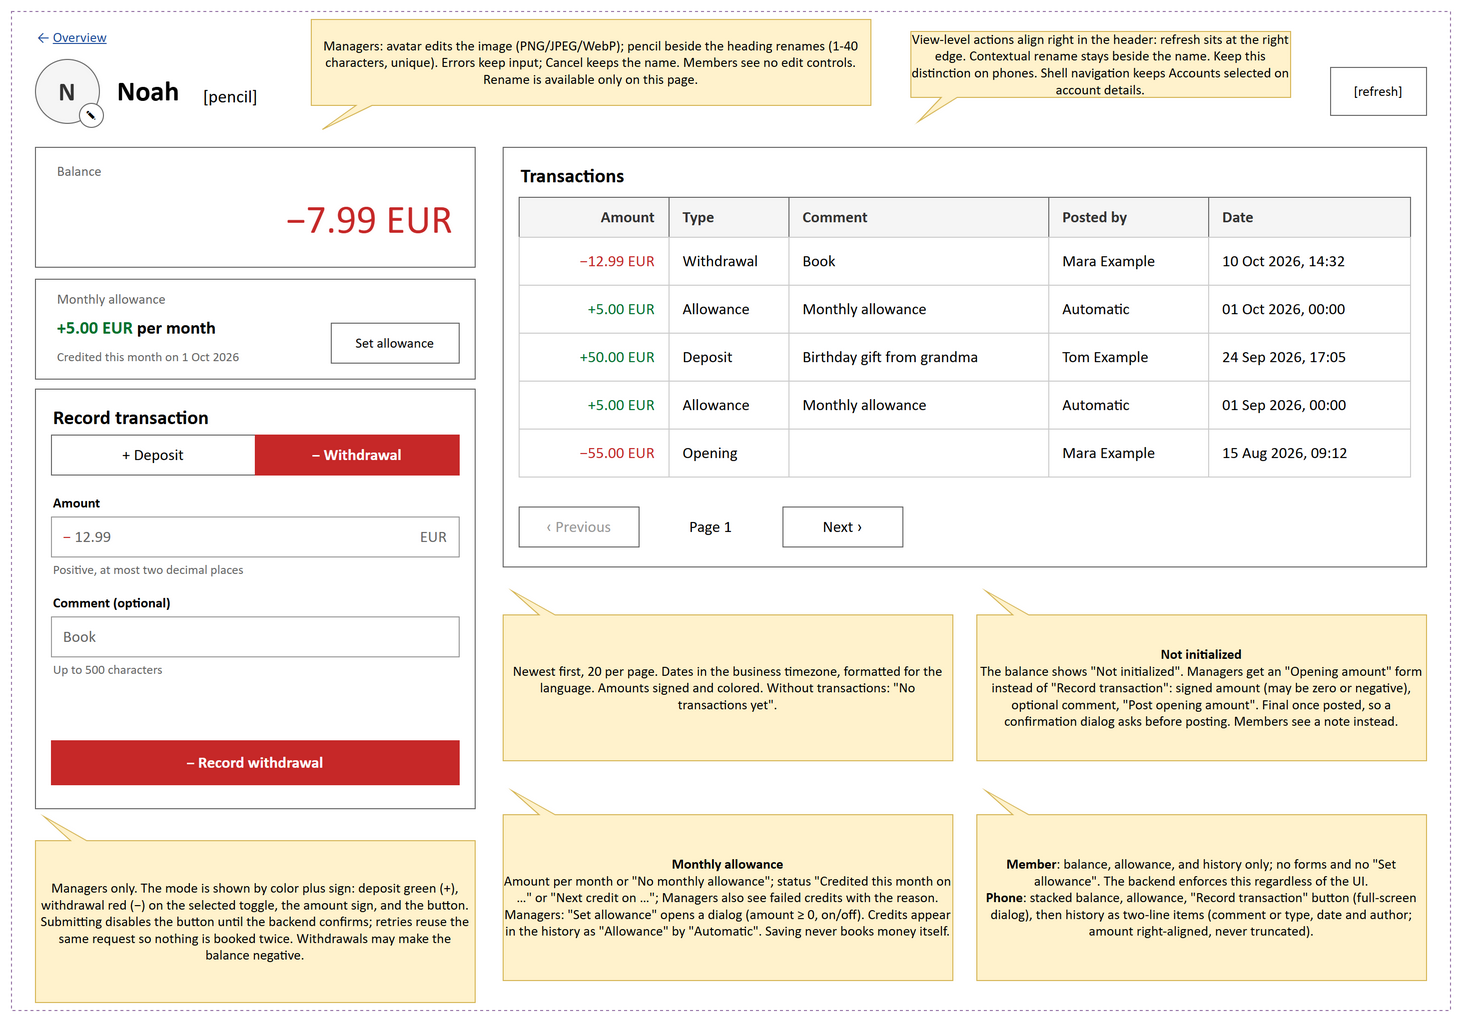
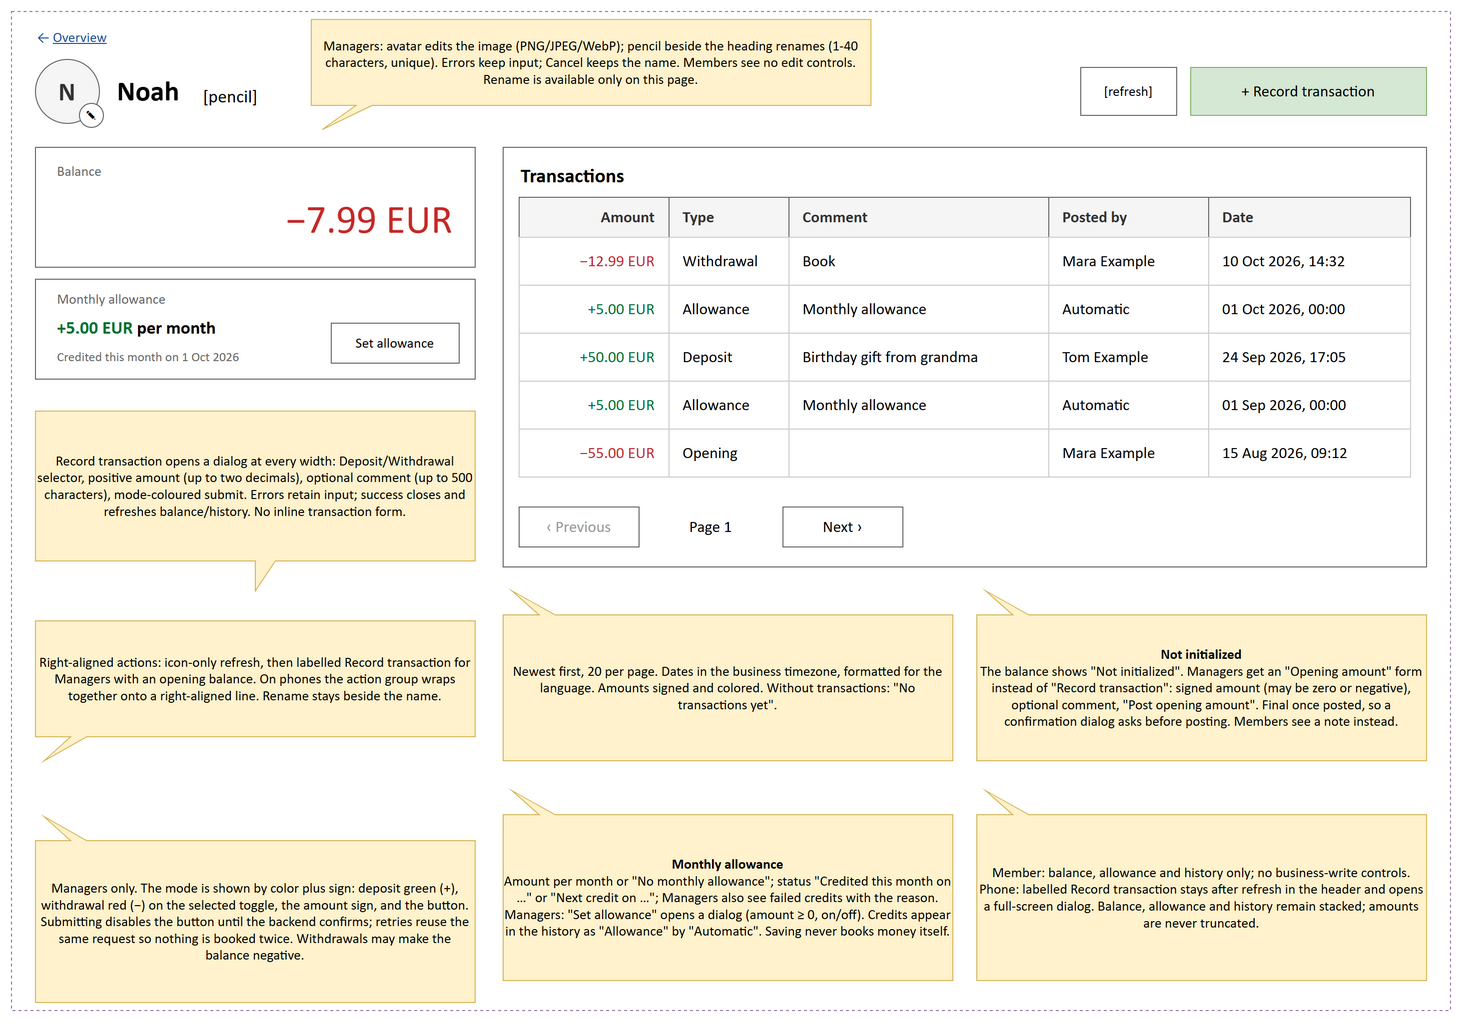
Transaction is now a button in the account details view opening a dialog

Changed region(s): [[0.0, 0.375, 0.3381, 0.7812], [0.6148, 0.0312, 0.9836, 0.125], [0.6762, 0.8438, 0.9836, 0.9375]]

diff --git a/docs/design/prototypes/account-details/index.html b/docs/design/prototypes/account-details/index.html
@@ -8,10 +8,13 @@
   <link rel="stylesheet" href="../shared/prototype.css">
   <style>
     .back-link { margin-bottom: var(--space-7); }
-    .details-head { display: flex; align-items: center; gap: var(--space-5); margin-bottom: var(--space-7); }
+    .details-head { display: flex; flex-wrap: wrap; align-items: center; gap: var(--space-5); margin-bottom: var(--space-7); }
     .details-head > .page-title { min-width: 0; overflow-wrap: anywhere; }
     .details-head > .avatar, .details-head > button { flex-shrink: 0; }
     .details-head > .view-actions { margin-inline-start: auto; }
+    .view-actions { display: flex; align-items: center; justify-content: end; gap: var(--space-3); max-width: 100%; }
+    .view-actions > .icon-button { flex-shrink: 0; }
+    .view-actions > .button { white-space: normal; }
     .avatar-button { position: relative; padding: 0; border: 0; border-radius: 50%; background: none; }
     .avatar-button:hover .avatar { outline: 2px solid var(--border-strong); }
     .avatar-badge { position: absolute; inset-inline-end: -2px; inset-block-end: -2px; display: grid; place-items: center; width: 26px; height: 26px; border: 1px solid var(--border-default); border-radius: 50%; background: var(--surface-raised); color: var(--icon-default); }
@@ -25,7 +28,6 @@
     .balance { font: var(--type-display); font-weight: var(--weight-medium); text-align: end; font-variant-numeric: tabular-nums; overflow-wrap: anywhere; }
     .allowance { display: flex; flex-wrap: wrap; align-items: center; justify-content: space-between; gap: var(--space-4); }
     .allowance-amount { font: var(--type-h3); }
-    .phone-record { display: none; }
     .pager { display: flex; flex-wrap: wrap; align-items: center; gap: var(--space-4); margin-top: var(--space-5); }
     .type-label { white-space: nowrap; }
     .transaction-form .segments span { gap: 6px; }
@@ -43,8 +45,6 @@
     .transaction-form .input-wrap .input { padding-inline-start: 28px; }
     @media (max-width: 899px) { .layout { grid-template-columns: 1fr; } }
     @media (max-width: 599px) {
-      .record-panel { display: none; }
-      .phone-record { display: flex; }
       .table thead { display: none; }
       .table tr { display: grid; grid-template-columns: 1fr auto; padding: 8px 0; border-bottom: 1px solid var(--border-subtle); }
       .table td { border: 0; padding: 2px 4px; }
@@ -90,7 +90,7 @@
       const balance = PM.balance(account);
       const money = PM.money(balance);
       view.innerHTML = `${back()}
-        <div class="details-head">${PM.isManager() ? `<button class="avatar-button" type="button" id="edit-image" aria-label="${PM.esc(PM.t('changeImage', { name: account.name }))}" title="${PM.esc(PM.t('changeImage', { name: account.name }))}">${PM.avatar(account)}<span class="avatar-badge" aria-hidden="true">${PM.icon('pencil')}</span></button>` : PM.avatar(account)}<h1 class="page-title">${PM.esc(account.name)}</h1>${PM.isManager() ? `<button class="icon-button" type="button" id="edit-name" aria-label="${PM.esc(PM.t('editNamed', { name: account.name }))}" title="${PM.esc(PM.t('editNamed', { name: account.name }))}">${PM.icon('pencil')}</button>` : ''}<button class="icon-button view-actions" type="button" id="refresh-view" aria-label="${PM.esc(PM.t('refresh'))}" title="${PM.esc(PM.t('refresh'))}">${PM.icon('refresh')}</button></div>
+        <div class="details-head">${PM.isManager() ? `<button class="avatar-button" type="button" id="edit-image" aria-label="${PM.esc(PM.t('changeImage', { name: account.name }))}" title="${PM.esc(PM.t('changeImage', { name: account.name }))}">${PM.avatar(account)}<span class="avatar-badge" aria-hidden="true">${PM.icon('pencil')}</span></button>` : PM.avatar(account)}<h1 class="page-title">${PM.esc(account.name)}</h1>${PM.isManager() ? `<button class="icon-button" type="button" id="edit-name" aria-label="${PM.esc(PM.t('editNamed', { name: account.name }))}" title="${PM.esc(PM.t('editNamed', { name: account.name }))}">${PM.icon('pencil')}</button>` : ''}<div class="view-actions"><button class="icon-button" type="button" id="refresh-view" aria-label="${PM.esc(PM.t('refresh'))}" title="${PM.esc(PM.t('refresh'))}">${PM.icon('refresh')}</button>${PM.isManager() && balance !== null ? `<button class="button button-primary" type="button" id="record-transaction">${PM.icon('plus')}${PM.esc(PM.t('recordTransaction'))}</button>` : ''}</div></div>
         <div class="layout">
           <div class="side">
             <section class="panel" aria-labelledby="balance-label"><div class="label" id="balance-label">${PM.esc(PM.t('balance'))}</div><div class="balance ${money.cls}">${PM.esc(money.text)}</div></section>
@@ -171,8 +171,7 @@
           </form></section>`;
       }
 
-      return `<button class="button button-primary button-block phone-record" type="button" id="phone-record">${PM.icon('plus')}${PM.esc(PM.t('recordTransaction'))}</button>
-        <section class="panel record-panel" aria-labelledby="record-title"><h2 class="panel-title" id="record-title">${PM.esc(PM.t('recordTransaction'))}</h2>${transactionForm('record')}</section>`;
+      return '';
     }
 
     function transactionForm(prefix) {
@@ -213,15 +212,10 @@
       document.getElementById('set-allowance')?.addEventListener('click', () => openAllowance(account));
       document.getElementById('edit-image')?.addEventListener('click', () => openImage(account));
       document.getElementById('opening-form')?.addEventListener('submit', event => submitOpening(event, account));
-      document.getElementById('phone-record')?.addEventListener('click', () => {
+      document.getElementById('record-transaction')?.addEventListener('click', () => {
         const recordDialog = PM.dialog({ title: PM.t('recordTransaction'), body: transactionForm('dialog') });
         bindTransaction(recordDialog.querySelector('form'), account, recordDialog);
       });
-      const form = view.querySelector('.transaction-form');
-
-      if (form) {
-        bindTransaction(form, account);
-      }
     }
 
     function bindTransaction(form, account, container) {

diff --git a/revamp/web/src/app/components/account-details/account-details.html b/revamp/web/src/app/components/account-details/account-details.html
@@ -29,19 +29,25 @@
           <span class="icon icon-pencil" aria-hidden="true"></span>
         </button>
       }
-      <button
-        class="view-actions"
-        tuiButton
-        appearance="flat"
-        size="s"
-        type="button"
-        [disabled]="busy() || !interactive()"
-        [attr.aria-label]="t('accounts.refresh')"
-        [title]="t('accounts.refresh')"
-        (click)="reload()"
-      >
-        <span class="icon icon-refresh-cw" aria-hidden="true"></span>
-      </button>
+      <div class="view-actions">
+        <button
+          tuiButton
+          appearance="flat"
+          size="s"
+          type="button"
+          [disabled]="busy() || !interactive()"
+          [attr.aria-label]="t('accounts.refresh')"
+          [title]="t('accounts.refresh')"
+          (click)="reload()"
+        >
+          <span class="icon icon-refresh-cw" aria-hidden="true"></span>
+        </button>
+        @if (auth.user()?.role === 'Manager' && current.balance !== null) {
+          <button tuiButton appearance="primary" size="m" type="button" [disabled]="busy() || !interactive()" (click)="transactionDialog.set(true)">
+            <span class="icon icon-plus" aria-hidden="true"></span>{{ t('accounts.recordTransaction') }}
+          </button>
+        }
+      </div>
     </div>
 
     <app-modal-dialog [open]="renaming()" [heading]="t('accounts.editNamed', { name: current.name })" (closed)="renaming.set(false)">
@@ -124,15 +130,6 @@
                 </button>
               </form>
             </section>
-          } @else if (phone()) {
-            <button tuiButton appearance="primary" size="m" type="button" class="phone-record" (click)="phoneForm.set(true)">
-              <span class="icon icon-plus" aria-hidden="true"></span>{{ t('accounts.recordTransaction') }}
-            </button>
-          } @else {
-            <section class="panel" aria-labelledby="record-title">
-              <h2 class="panel-title" id="record-title">{{ t('accounts.recordTransaction') }}</h2>
-              <ng-container [ngTemplateOutlet]="transactionForm" [ngTemplateOutletContext]="{ $implicit: current }" />
-            </section>
           }
         } @else if (current.balance === null) {
           <div class="message message-info">
@@ -205,8 +202,8 @@
       }
     </div>
 
-    <app-modal-dialog [open]="phoneForm()" [heading]="t('accounts.recordTransaction')" (closed)="phoneForm.set(false)">
-      @if (phoneForm()) {
+    <app-modal-dialog [open]="transactionDialog()" [heading]="t('accounts.recordTransaction')" (closed)="transactionDialog.set(false)">
+      @if (transactionDialog()) {
         <ng-container [ngTemplateOutlet]="transactionForm" [ngTemplateOutletContext]="{ $implicit: current }" />
       }
     </app-modal-dialog>

diff --git a/revamp/tests/e2e/specs/ledger.spec.ts b/revamp/tests/e2e/specs/ledger.spec.ts
@@ -54,9 +54,15 @@ async function chooseLanguage(page: Page, language: string, returnTo: string) {
 }
 
 async function openTransactionForm(page: Page, record: string) {
-  if (page.viewportSize()!.width < 600) {
-    await page.getByRole('button', { name: record, exact: true }).click();
-  }
+  const actions = page.locator('.details-head .view-actions');
+  const trigger = actions.getByRole('button', { name: record, exact: true });
+
+  await expect(page.locator('.transaction-form')).toHaveCount(0);
+  await expect(actions.getByRole('button')).toHaveCount(2);
+  await expect(actions.getByRole('button').last()).toHaveText(record);
+  await trigger.click();
+  await expect(page.getByRole('dialog', { name: record, exact: true })).toBeVisible();
+  await expect(page.locator('.transaction-form')).toHaveCount(1);
 }
 
 test('real SQLite ledger migration, exact arithmetic, constraints and complete rollback hold @api', async () => {
@@ -752,6 +758,7 @@ for (const language of ['de', 'en'] as const) {
       await expect(page.getByTestId('account-balance')).toHaveText(`-0${labels.decimal}01 ${symbol}`);
       await expect(page.getByTestId('account-balance')).toHaveClass(/amount-negative/);
       await openTransactionForm(page, labels.record);
+      await page.screenshot({ path: test.info().outputPath('transaction-dialog.png'), fullPage: true });
       await page.getByRole('radio', { name: labels.withdrawal, exact: true }).check();
 
       await expect(page.locator('form[data-mode="withdrawal"]')).toBeVisible();
@@ -767,6 +774,7 @@ for (const language of ['de', 'en'] as const) {
       await page.getByRole('textbox', { name: labels.comment, exact: true }).fill(comment);
       await page.getByRole('button', { name: labels.postWithdrawal, exact: true }).click();
       await expect(page.getByTestId('account-balance')).toHaveText(`-0${labels.decimal}03 ${symbol}`);
+      await expect(page.getByRole('dialog', { name: labels.record, exact: true })).toHaveCount(0);
       await expect(page.getByTestId('ledger-entry').first()).toContainText(comment);
       await expect(page.getByTestId('ledger-entry').first()).toContainText(`-0${labels.decimal}02 ${symbol}`);
       expect(await page.evaluate(() => 'monkeyXss' in window)).toBe(false);

diff --git a/revamp/web/src/app/components/account-details/account-details.ts b/revamp/web/src/app/components/account-details/account-details.ts
@@ -1,5 +1,5 @@
-import { afterNextRender, Component, effect, inject, PLATFORM_ID, signal } from '@angular/core';
-import { DatePipe, isPlatformBrowser, NgTemplateOutlet } from '@angular/common';
+import { afterNextRender, Component, effect, inject, signal } from '@angular/core';
+import { DatePipe, NgTemplateOutlet } from '@angular/common';
 import { toSignal } from '@angular/core/rxjs-interop';
 import { FormsModule } from '@angular/forms';
 import { ActivatedRoute, RouterLink } from '@angular/router';
@@ -38,7 +38,6 @@ export class AccountDetails {
   private readonly service = inject(AccountsService);
   private readonly route = inject(ActivatedRoute);
   private readonly parameters = toSignal(this.route.paramMap);
-  private readonly phoneQuery = isPlatformBrowser(inject(PLATFORM_ID)) ? matchMedia('(max-width: 599px)') : null;
 
   protected readonly account = signal<SharedAccount | null>(null);
   protected readonly loading = signal(false);
@@ -52,8 +51,7 @@ export class AccountDetails {
   protected name = '';
   protected readonly source = signal<'deposit' | 'withdrawal'>('deposit');
   protected readonly confirmingOpening = signal(false);
-  protected readonly phone = signal(false);
-  protected readonly phoneForm = signal(false);
+  protected readonly transactionDialog = signal(false);
   protected readonly history = signal<LedgerEntry[]>([]);
   protected readonly historyLoading = signal(true);
   protected readonly historyError = signal('');
@@ -88,10 +86,7 @@ export class AccountDetails {
       }
     });
 
-    this.phoneQuery?.addEventListener('change', (event) => this.phone.set(event.matches));
-
     afterNextRender(() => {
-      this.phone.set(this.phoneQuery?.matches ?? false);
       this.interactive.set(true);
 
       if (this.account()?.balance !== null) {
@@ -181,7 +176,7 @@ export class AccountDetails {
         this.transactionPayload = '';
         this.amount = '';
         this.comment = '';
-        this.phoneForm.set(false);
+        this.transactionDialog.set(false);
         this.saved.set(source === 'deposit' ? 'accounts.depositSaved' : 'accounts.withdrawalSaved');
         const refreshed = await this.service.find(account.id);
 

diff --git a/revamp/web/src/app/components/account-details/account-details.scss b/revamp/web/src/app/components/account-details/account-details.scss
@@ -4,6 +4,7 @@
 
 .details-head {
   display: flex;
+  flex-wrap: wrap;
   align-items: center;
   gap: var(--space-5);
   margin-bottom: var(--space-7);
@@ -20,6 +21,22 @@
 
   > .view-actions {
     margin-inline-start: auto;
+  }
+}
+
+.view-actions {
+  display: flex;
+  align-items: center;
+  justify-content: end;
+  gap: var(--space-3);
+  max-width: 100%;
+
+  > button:first-child {
+    flex-shrink: 0;
+  }
+
+  > button:last-child {
+    white-space: normal;
   }
 }
 

diff --git a/docs/design/README.md b/docs/design/README.md
@@ -30,6 +30,19 @@ View-level actions such as refresh align at the right edge of the view header;
 contextual actions stay beside their target. See the shared
 [view-header guidance](design-system/components.md#view-headers).
 
+The user approved the unified transaction-dialog refinement on 2026-10-10:
+desktop and mobile account details show a labelled "Record transaction" action
+immediately after icon-only refresh in the right-aligned header group. Managers
+with an opening balance use the same dialog for deposits and withdrawals at
+every width; the regular view no longer embeds the form. Phone dialogs remain
+full-screen. Opening-balance entry and backend financial rules are unchanged.
+Verification: Angular/production-image builds, catalog validation and test
+typechecking passed. All four selected desktop/mobile localized transaction
+workflows passed without retries, covering deposits, withdrawals, validation,
+retry idempotency, dialog closure, history and Member access. Desktop/mobile
+dialog screenshots were reviewed. Prototype checks covered English/German,
+light/dark, 320px/360px/1440px, action order, dialog opening and role/opening gates.
+
 ## Reference inventory
 
 Login and app-shell footer updates are approved: show the build version and a
@@ -74,7 +87,7 @@ wireframe first, then a detailed click prototype.
 | App shell | [draw.io source](wireframes/application-shell/application-shell-wireframe.drawio), [PNG preview](wireframes/application-shell/application-shell-wireframe.png) | Approved 2026-10-10, including footer refinements | [Shell](prototypes/application-shell/index.html) |
 | Accounts overview | [draw.io source](wireframes/accounts-overview/accounts-overview-wireframe.drawio), [PNG preview](wireframes/accounts-overview/accounts-overview-wireframe.png) | Approved 2026-10-10 | [Overview](prototypes/accounts-overview/index.html) |
 | Accounts | [draw.io source](wireframes/accounts/accounts-wireframe.drawio), [PNG preview](wireframes/accounts/accounts-wireframe.png) | Approved 2026-10-10, including mobile identity/status grouping and removal of the mobile chevron | [Accounts](prototypes/accounts/index.html) |
-| Account details | [draw.io source](wireframes/account-details/account-details-wireframe.drawio), [PNG preview](wireframes/account-details/account-details-wireframe.png) | Approved 2026-10-10, including rename, refresh, spacing and navigation refinements | [Account details](prototypes/account-details/index.html) |
+| Account details | [draw.io source](wireframes/account-details/account-details-wireframe.drawio), [PNG preview](wireframes/account-details/account-details-wireframe.png) | Approved 2026-10-10, including unified transaction dialog and labelled header action after refresh | [Account details](prototypes/account-details/index.html) |
 | Administration: Profile | [draw.io source](wireframes/administration/administration-profile-wireframe.drawio), [PNG preview](wireframes/administration/administration-profile-wireframe.png) | Approved 2026-10-10 | [Administration](prototypes/administration/index.html) |
 | Administration: Users | [draw.io source](wireframes/administration/administration-users-wireframe.drawio), [PNG preview](wireframes/administration/administration-users-wireframe.png) | Approved 2026-10-10 | [Administration](prototypes/administration/index.html) |
 | Login | [draw.io source](wireframes/login/login-wireframe.drawio), [PNG preview](wireframes/login/login-wireframe.png) | Approved 2026-10-10, including version/GitHub footer | [Login](prototypes/login/index.html) |

diff --git a/docs/design/design-system/components.md b/docs/design/design-system/components.md
@@ -28,6 +28,12 @@ interaction requirements.
 - On narrow screens, allow long titles to wrap without shrinking icon controls
   or overlapping content. Keep view actions aligned right; if the header needs
   another line, the action group remains right-aligned on that line.
+- Account details groups icon-only refresh followed by a labelled, plus-icon
+  "Record transaction" button. Managers see that action only after an opening
+  balance exists. At every width it opens the same deposit/withdrawal dialog;
+  no transaction form is embedded in the regular view. Phones use the existing
+  full-screen dialog. Errors preserve input; success closes the dialog and
+  refreshes balance/history. Closing without posting preserves the draft.
 
 ## Amounts
 
